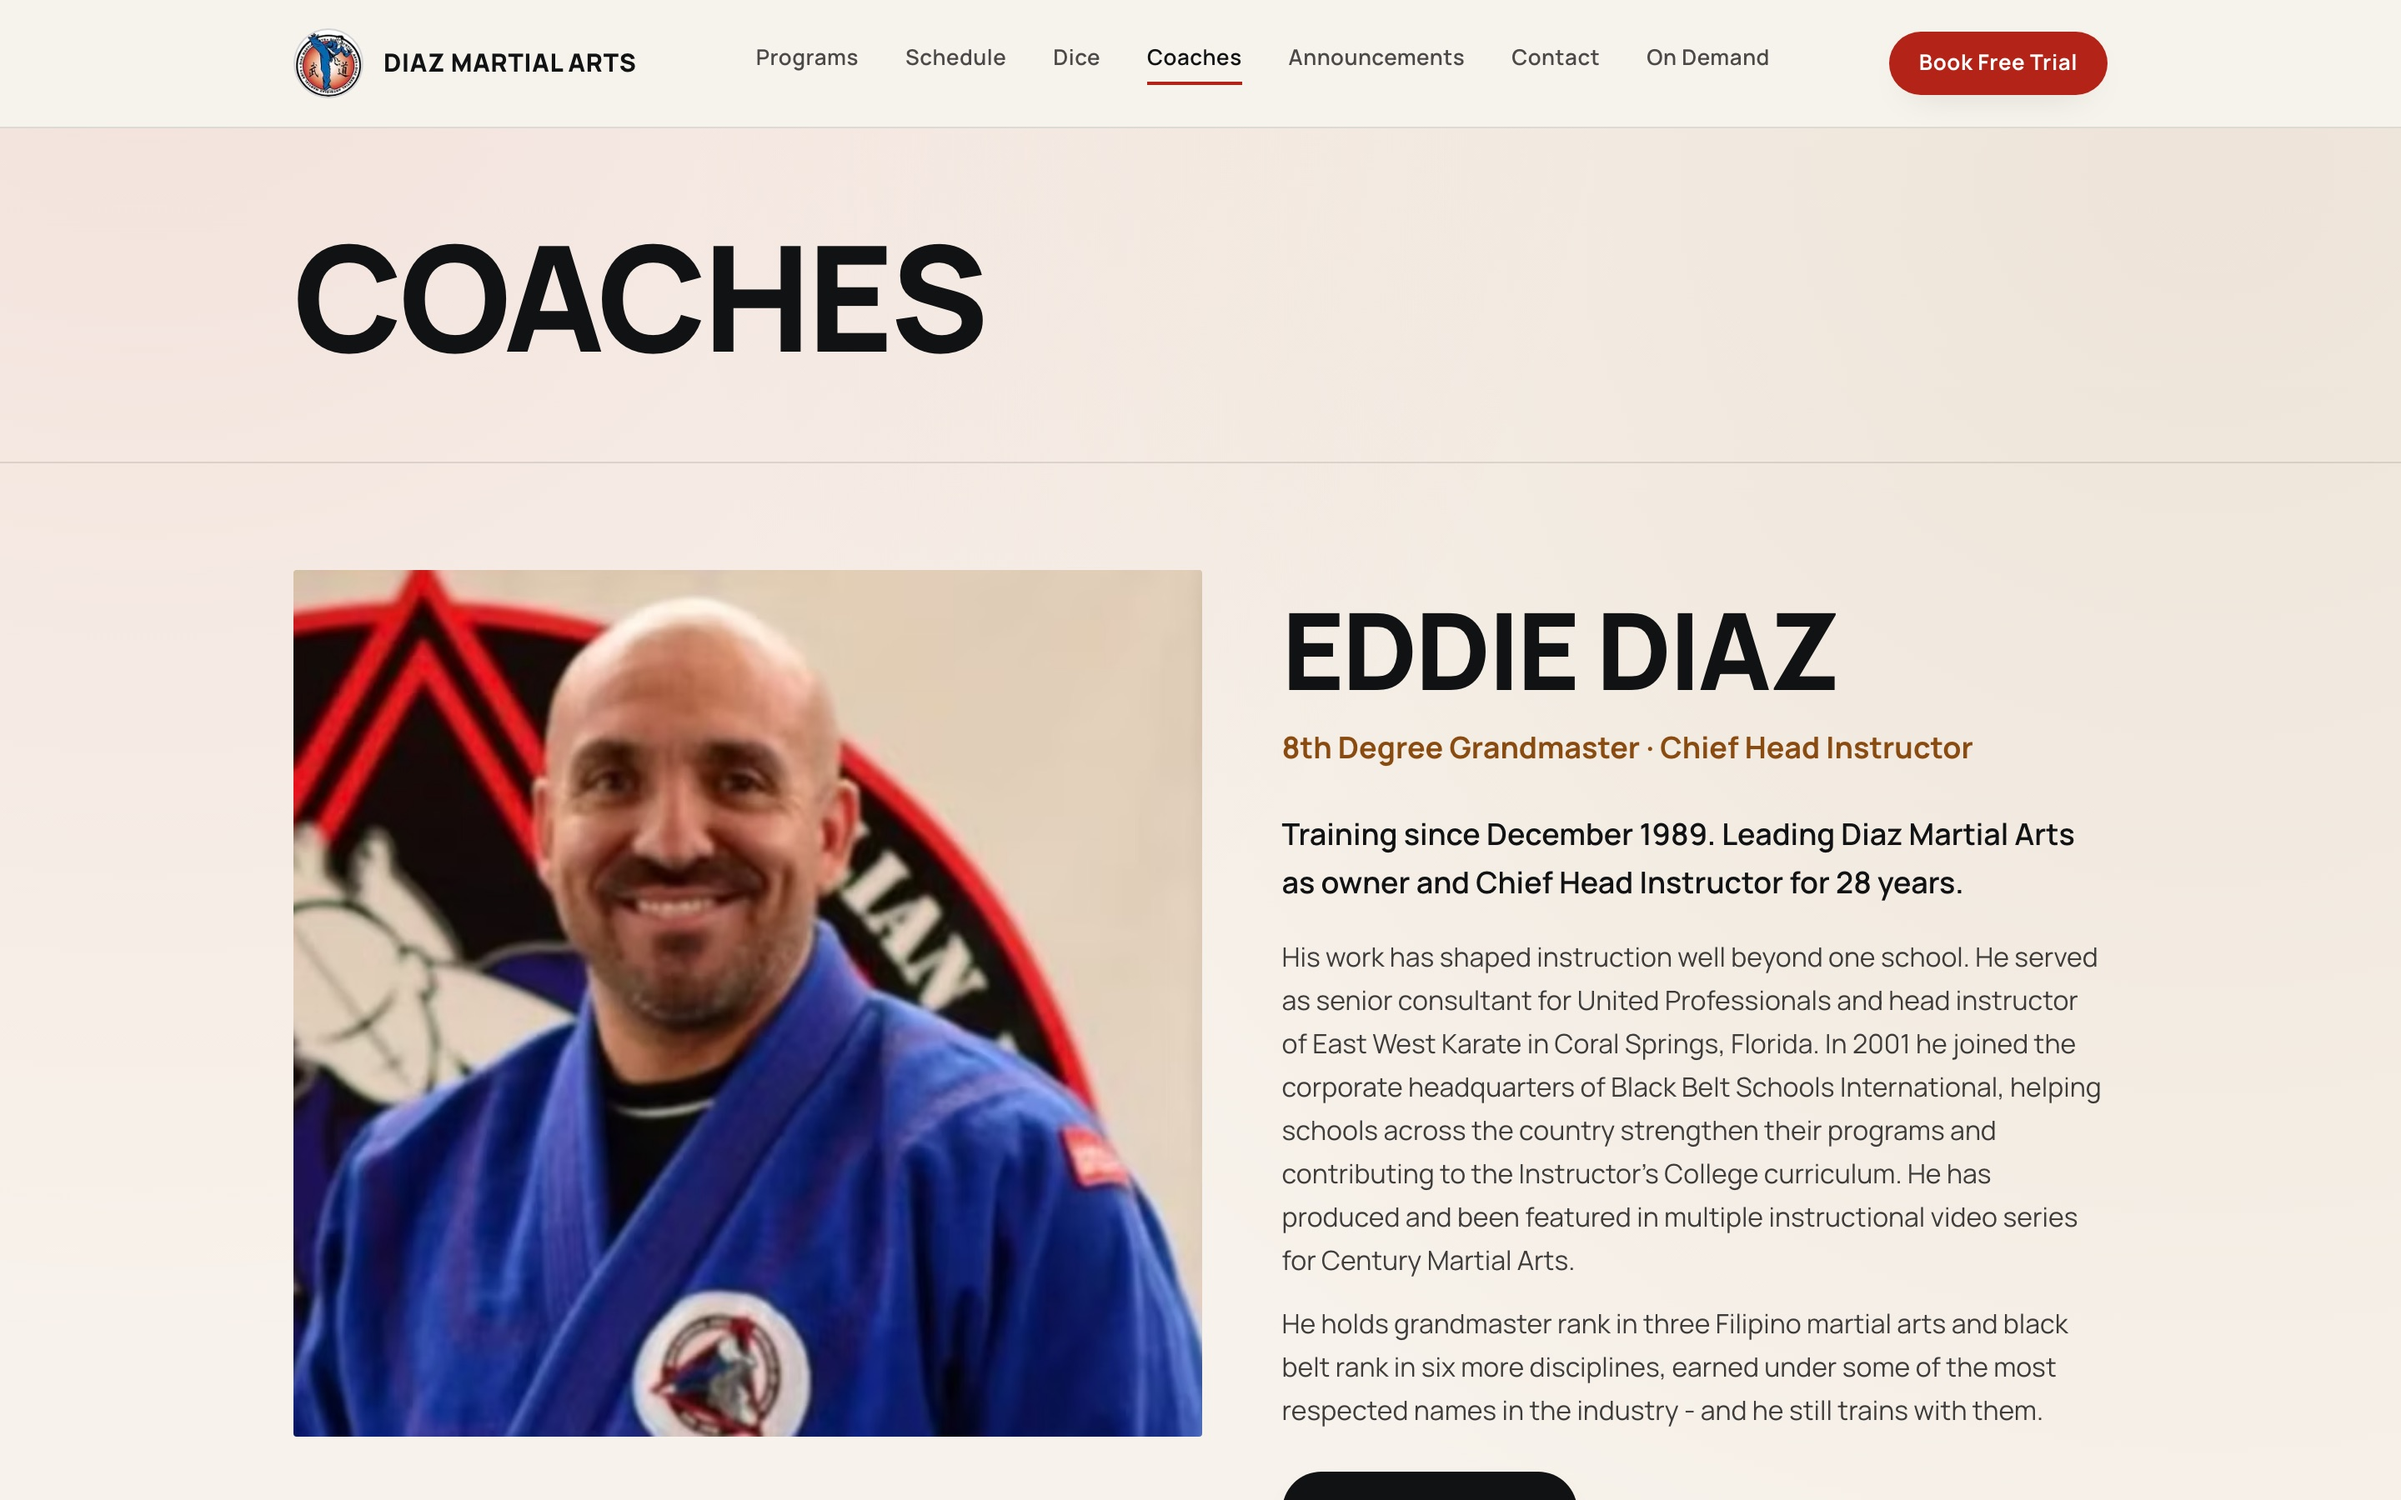
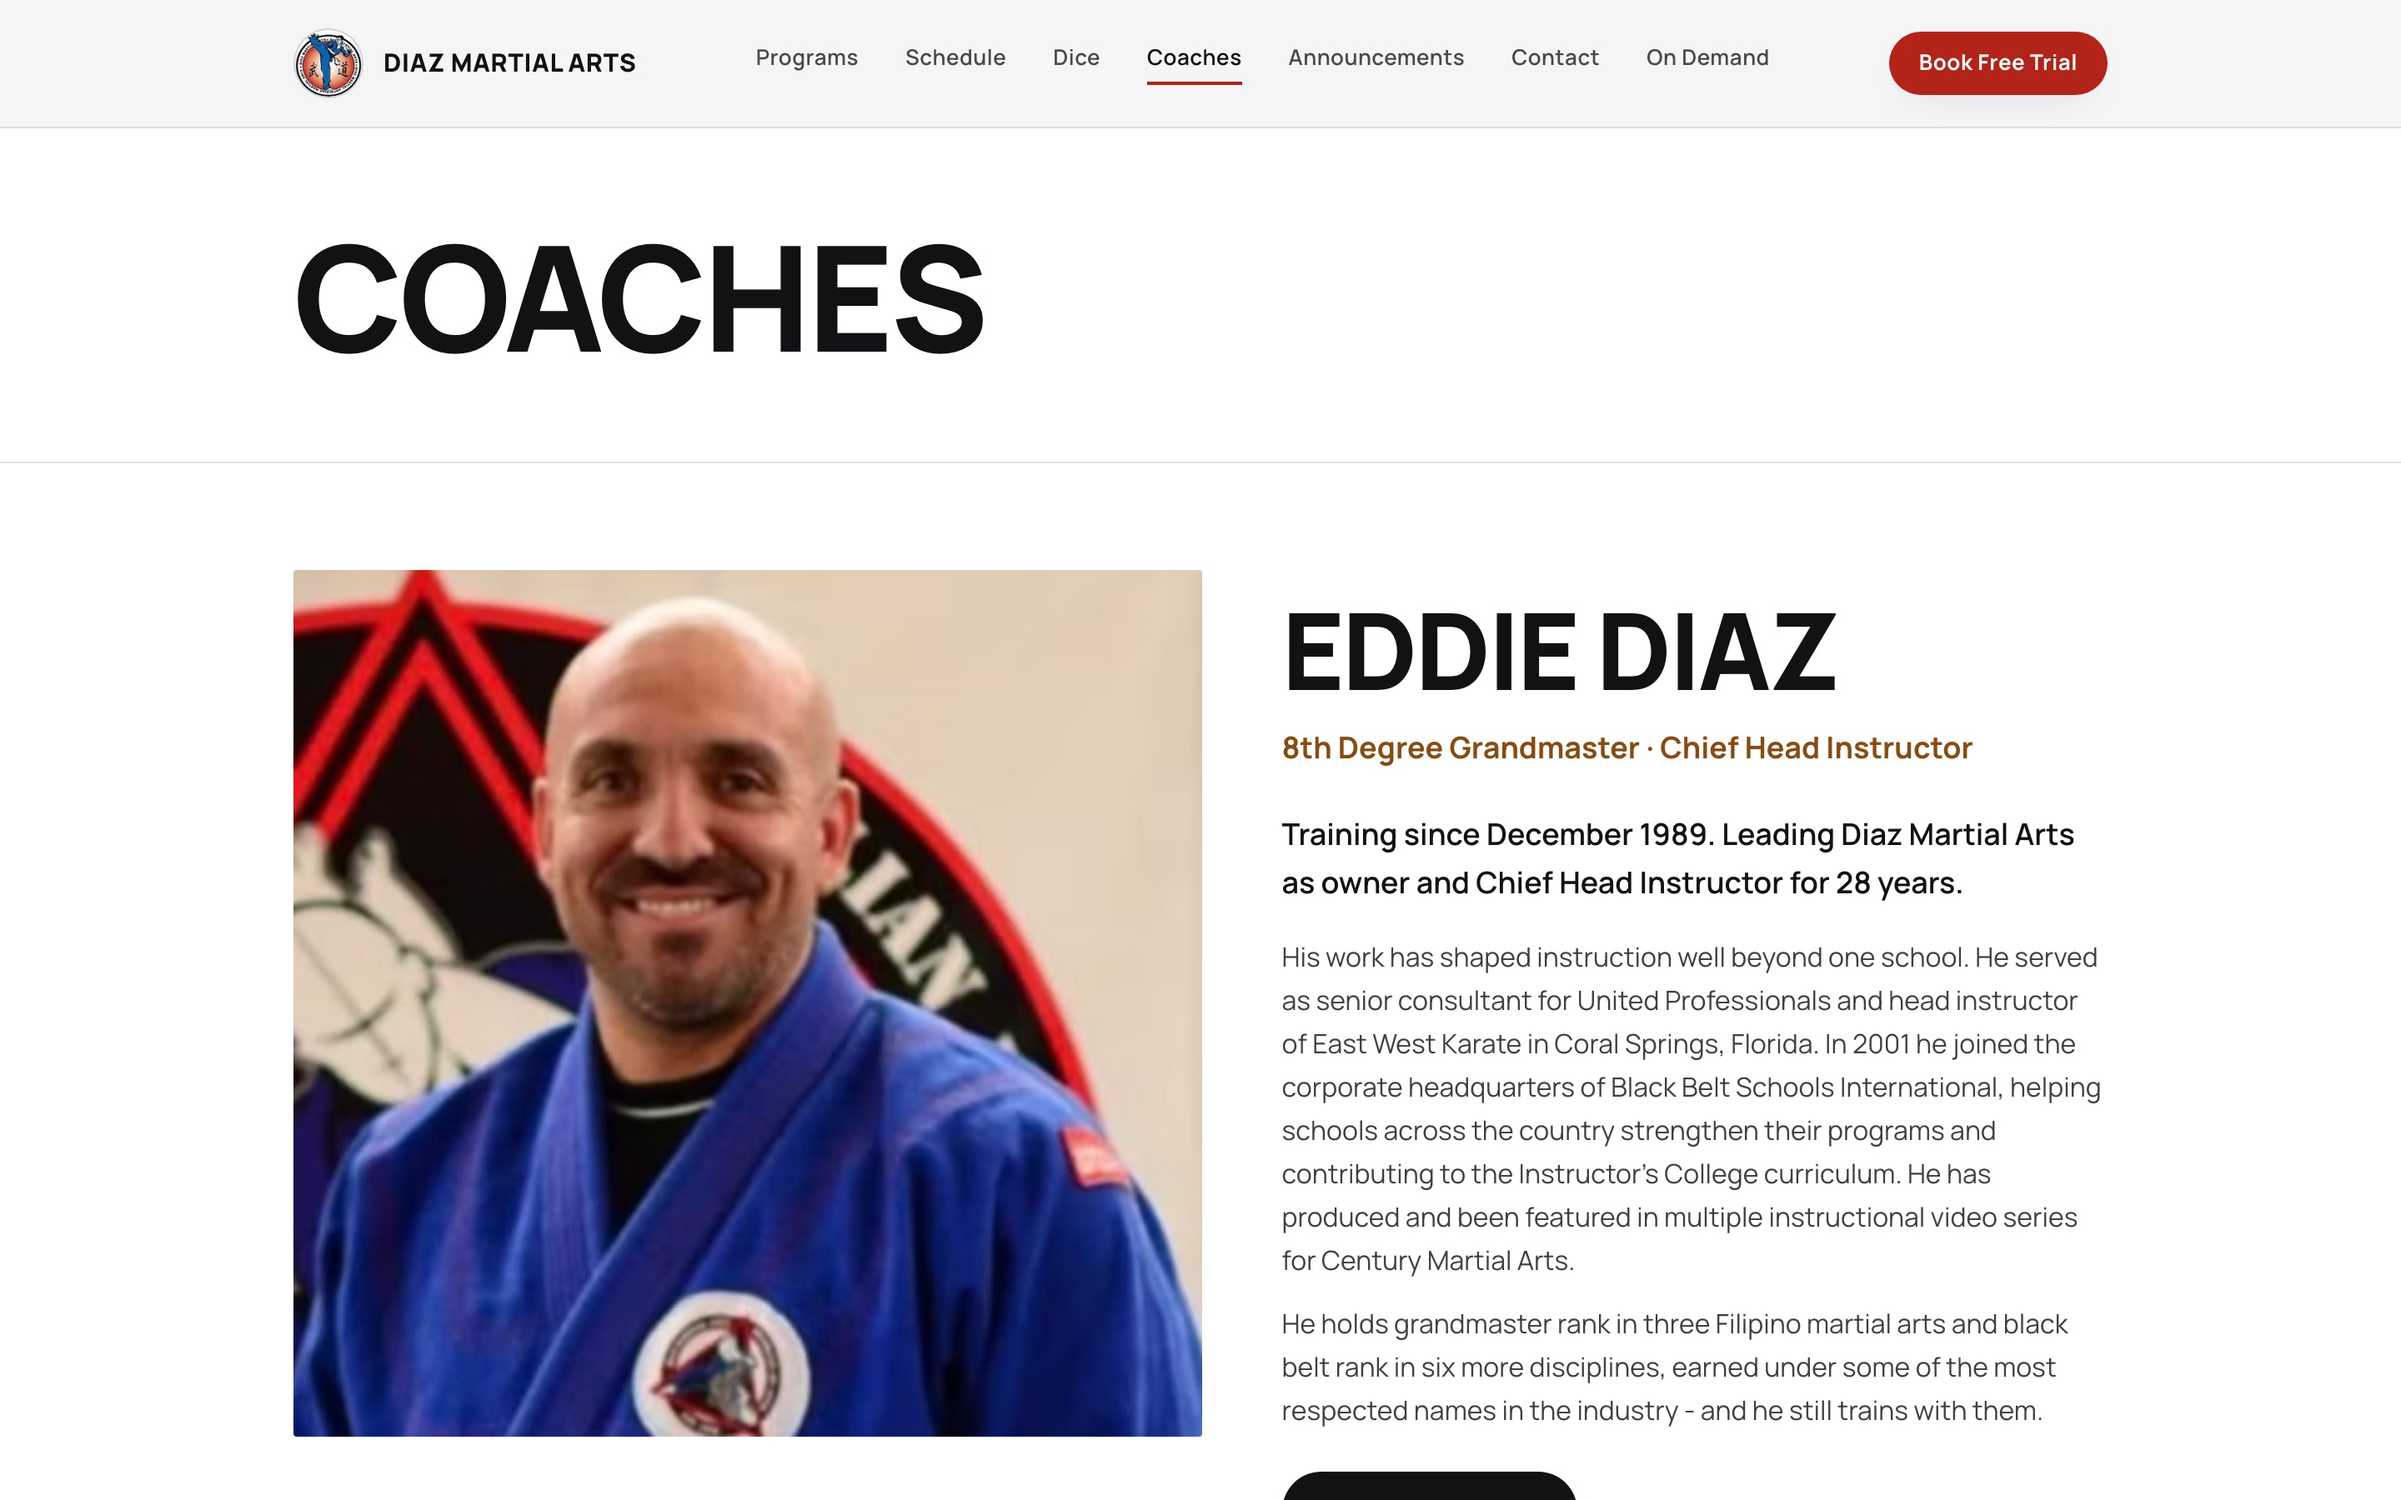
feat(content): retake the design study's live shots on the white page and record the background change
The Diaz site dropped its tan page and warm radial washes for flat white
with neutral grey panels (DiazMartialArts #65, merged 3 November 2026), so
the four current-site screenshots and the hero pair's after were retaken
from the live site. The palette decision now records the change in the
study's own voice instead of describing the tan as current, two alts stop
calling the next-class card sand, and the phone pair keeps its pre-change
after shot as history with its date on the label and a caption line saying
the tan page went later that day. The test pins the new label.

diff --git a/src/content/caseStudies.js b/src/content/caseStudies.js
@@ -31,9 +31,13 @@ export const caseStudies = [
        two "before" states were built from the parent commits of the pull
        requests that changed them (c092203 for the hero, f2fd764 for the
        labels), and their labels carry that commit's date rather than its
-       hash; each "after" is the live site. So the hero pair also shows
-       everything that landed since August, the Manrope switch and later nav
-       items included; its caption names the font change. */
+       hash. The four current-site shots and the hero pair's "after" are the
+       live site on 3 November 2026 after the white background landed
+       (062ede1), so the hero pair also shows everything since August, the
+       Manrope switch and later nav items included; its caption names the
+       font change. The phone pair's "after" was captured between the labels
+       coming off and the background change the same day, and is kept as it
+       was so the pair shows one change, not two. */
     figures: [
       {
         after: 'hero',
@@ -42,7 +46,7 @@ export const caseStudies = [
         shots: [
           {
             source: dmaHome1440,
-            alt: 'Diaz Martial Arts home page at 1440 pixels wide: a dark photo of the gym behind the headline Martial arts for real progress, with the word progress in gold, two pill buttons, and a sand card listing the next class up.',
+            alt: 'Diaz Martial Arts home page at 1440 pixels wide: a dark photo of the gym behind the headline Martial arts for real progress, with the word progress in gold, two pill buttons, and a pale grey card listing the next class up.',
             width: 1440,
             height: 900,
             label: '1440 px',
@@ -101,7 +105,7 @@ export const caseStudies = [
       {
         after: 'decisions',
         caption:
-          'The reasons rows and the first program card at phone width, just before and just after the labels came off. The card’s age range replaced its one-word sub-line because a parent needs it and a tag reading Grappling says nothing the title does not.',
+          'The reasons rows and the first program card at phone width, just before and just after the labels came off. The card’s age range replaced its one-word sub-line because a parent needs it and a tag reading Grappling says nothing the title does not. Both sit on the tan page that went later the same day.',
         shots: [
           {
             source: dmaWhyBefore390,
@@ -115,7 +119,7 @@ export const caseStudies = [
             alt: 'After: the same headings with no label above them and no sub-line below, and the first program card showing its numeral, title, sentence and age range.',
             width: 390,
             height: 1360,
-            label: 'After',
+            label: 'After, 3 November 2026',
           },
         ],
       },
@@ -138,8 +142,8 @@ export const caseStudies = [
         {
           lead: 'One red, rationed.',
           body: [
-            'The palette has been the same since the first commit: ink, sand, ember, bronze and gold. Ember is the primary button, the active underline in the navigation, the numerals on the program and reasons rows, the focus ring and the text selection, and nothing else.',
-            'Everything else is ink on sand, and the sand is not flat. Two faint radial washes of ember and bronze sit in the top corners over a slow gradient, so the paper reads warm without a visible pattern.',
+            'The palette has carried the same five names since the first commit: ink, sand, ember, bronze and gold. Ember is the primary button, the active underline in the navigation, the numerals on the program and reasons rows, the focus ring and the text selection, and nothing else.',
+            'For nine months everything else was ink on a warm sand: two faint radial washes of ember and bronze in the top corners over a slow tan gradient. On 3 November I took the tan out too. It had started to read like a template, which is the thing this whole site is trying not to be. The page is flat white now, the sand and clay panels moved to neutral greys, and ink, ember and the charcoal panels stayed where they were. With less colour on the page, the one red carries more.',
           ],
         },
         {
@@ -153,7 +157,7 @@ export const caseStudies = [
           lead: 'Rows, not cards.',
           body: [
             'The reasons section is a headline column beside three numbered rows ruled with hairlines. The programs are a two-column ruled grid, each cell a numeral, a title, a sentence and an arrow.',
-            'The one card on the home page is the next class up, a sand panel in the hero that reads the schedule on the gym’s clock rather than the visitor’s. It is the only thing on the page that looks like an object, and the one thing a current member comes back for.',
+            'The one card on the home page is the next class up, a pale panel in the hero that reads the schedule on the gym’s clock rather than the visitor’s. It is the only thing on the page that looks like an object, and the one thing a current member comes back for.',
           ],
         },
         {
@@ -186,12 +190,12 @@ export const caseStudies = [
       ],
       outcomes: [
         'The site is live at https://www.diazmartialarts.com and the owner publishes through it.',
-        'What a visitor sees now: one typeface, one red, the gym’s own photo, headings with nothing stacked around them, and a free-trial button first on the screen at every width.',
+        'What a visitor sees now: one typeface, one red on a white page, the gym’s own photo, headings with nothing stacked around them, and a free-trial button first on the screen at every width.',
         'I have no conversion numbers to report and will not invent any. The only numbers in this study are the ones measured in the browser and recorded in the commits.',
         'Source: https://github.com/codyjohnsontx/DiazMartialArts',
       ],
       lessons: [
-        'Most of the design happened by removal. The commits that changed how the site looks most are the ones that deleted a ribbon, a label, a card or a second typeface.',
+        'Most of the design happened by removal. The commits that changed how the site looks most are the ones that deleted a ribbon, a label, a card, a second typeface or a tint.',
         'Treat contrast as a floor you can prove, not a sample you took once. The scrim comment in the hero owns its figures and how they were measured, so the next change to the photo has something to be checked against.',
         'A design decision that is not rendered is not a decision. The type system sat in the stylesheet for nearly three months before a browser showed it.',
       ],

diff --git a/src/App.test.jsx b/src/App.test.jsx
@@ -1353,7 +1353,7 @@ describe('portfolio routes and metadata', () => {
       'Before, 18 August 2026',
       'After',
       'Before, 1 November 2026',
-      'After',
+      'After, 3 November 2026',
     ]);
     const decisions = page.getByRole('heading', { level: 2, name: 'Decisions' }).closest('section');
     expect(decisions.nextElementSibling.querySelector('figure.case-figure')).toBe(figures[2]);
